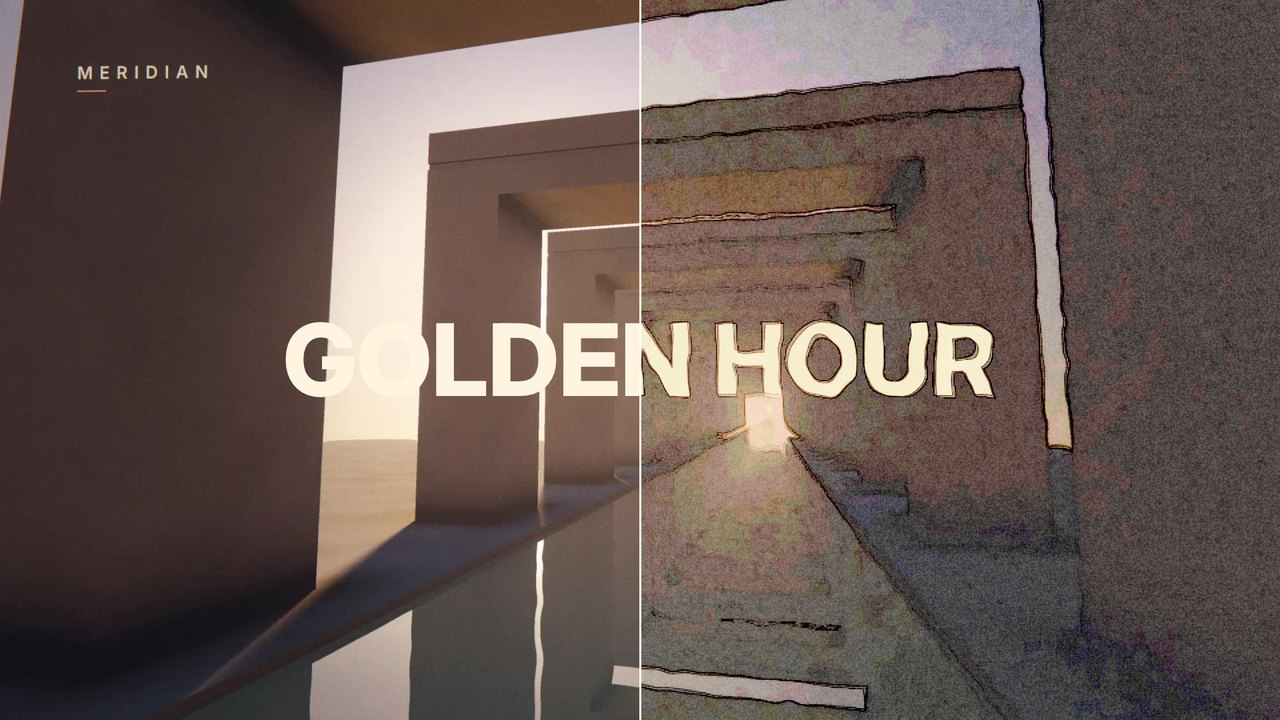
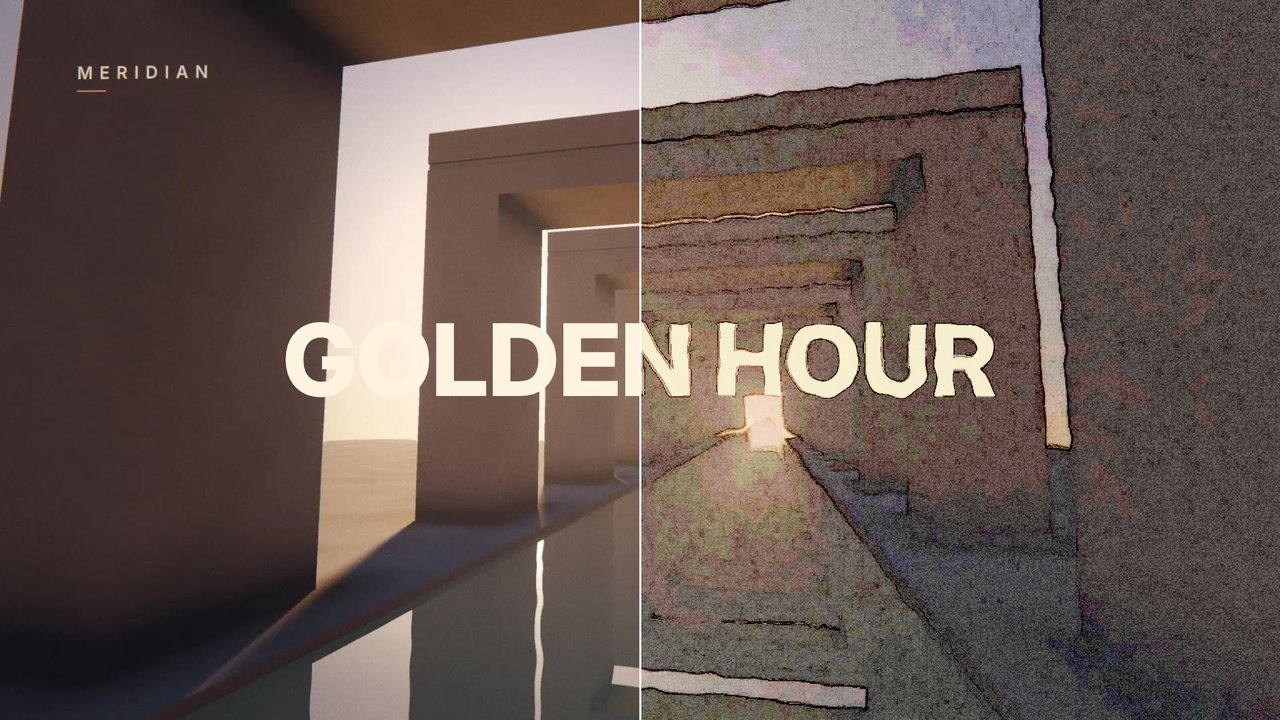
filters: halftone 58 -> 29 ms (cell colour by exact texel read), watercolour 80 -> 34 ms (texel reads at warped points, two-channel value noise, per-cell grain); stills refreshed
Claude-Session: https://claude.ai/code/session_01YBqayc2uNi5ZVbFDcUPkGm

diff --git a/crates/anikit-shader/src/library.rs b/crates/anikit-shader/src/library.rs
@@ -67,10 +67,10 @@ lib! {
     "light-shafts", Image, 91, "Sun through a window into a hazy room: pane-shaped beams with mullions and leaves, drifting haze, glinting dust.";
     "particles", Image, 98, "Glowing particles drifting in depth with bokeh (depth of field), one pass.";
     "glass", Filter, 80, "The layers below seen through fluted, ribbed, rippled or pebbled glass: refraction, colour fringes, frost.";
-    "halftone", Filter, 60, "Printed dots: CMYK screens at classic angles (or one black screen) on paper.";
+    "halftone", Filter, 29, "Printed dots: CMYK screens at classic angles (or one black screen) on paper.";
     "risograph", Filter, 28, "Two or three spot inks, out of register, with stencil grain: the risograph look.";
     "linocut", Filter, 19, "Carved block print: solid ink, tone-following gouges, bold outlines, paper tooth.";
-    "watercolour", Filter, 80, "Washes that bleed and pool dark at their edges, with paper granulation.";
+    "watercolour", Filter, 34, "Washes that bleed and pool dark at their edges, with paper granulation.";
     "crosshatch", Filter, 25, "Pen or pencil hatching: more directions for darker tones, hand wobble, outlines.";
     "film", Filter, 25, "Photochemical stock: filmic curve, lifted blacks, red halation, gate weave, midtone grain.";
     "dither", Filter, 18, "Ordered (Bayer) dither into a 2- or 3-colour palette at a chosen pixel size.";

diff --git a/docs/video/shader.md b/docs/video/shader.md
@@ -277,10 +277,10 @@ One line turns everything below into a distinct, printed or photographed look. P
 
 | Filter | Look | Key uniforms | ms/frame 1080p |
 |---|---|---|---|
-| `halftone` | CMYK dot screens at classic angles, or one black screen | `size`, `mono`, `angle`, `paper`, `contrast` | 60 (mono ≈ 20) |
+| `halftone` | CMYK dot screens at classic angles, or one black screen | `size`, `mono`, `angle`, `paper`, `contrast` | 29 |
 | `risograph` | two or three spot inks, off register, stencil grain | `ink1`, `ink2`, `ink3`, `use3`, `offset`, `grain`, `paper` | 28 |
 | `linocut` | carved block print: solid ink, tone-following gouges, bold outlines | `ink`, `paper`, `threshold`, `lines`, `edge` | 19 |
-| `watercolour` | washes that bleed and pool dark at their edges, paper granulation | `bleed`, `edges`, `granulation`, `paper`, `wash` | 80 |
+| `watercolour` | washes that bleed and pool dark at their edges, paper granulation | `bleed`, `edges`, `granulation`, `paper`, `wash` | 34 |
 | `crosshatch` | pen or pencil hatching, more directions for darker tones | `ink`, `paper`, `spacing`, `pencil`, `edge` | 25 |
 | `film` | photochemical stock: filmic curve, lifted blacks, red halation, gate weave, midtone grain | `stock`, `halation`, `grain`, `weave`, `fade` | 25 |
 | `dither` | ordered Bayer dither into a 2- or 3-colour palette | `pixel`, `dark`, `light`, `mid`, `levels` | 18 |
